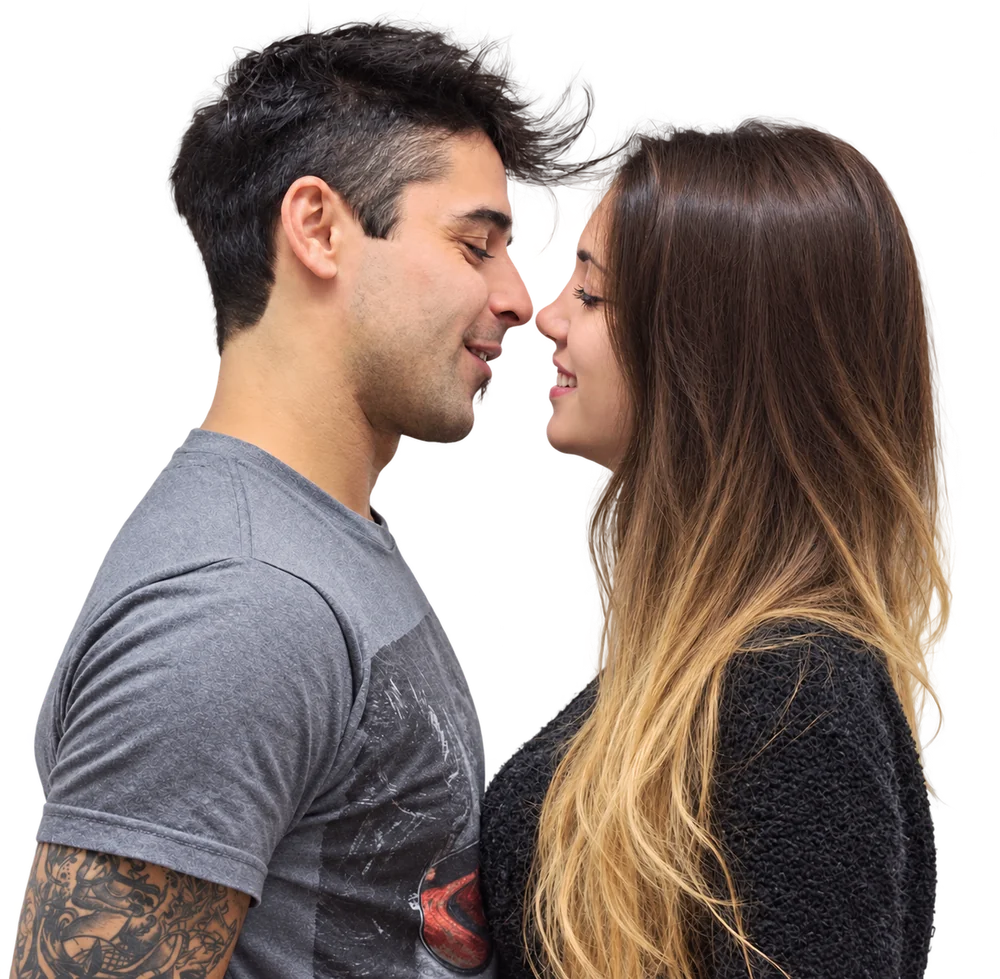
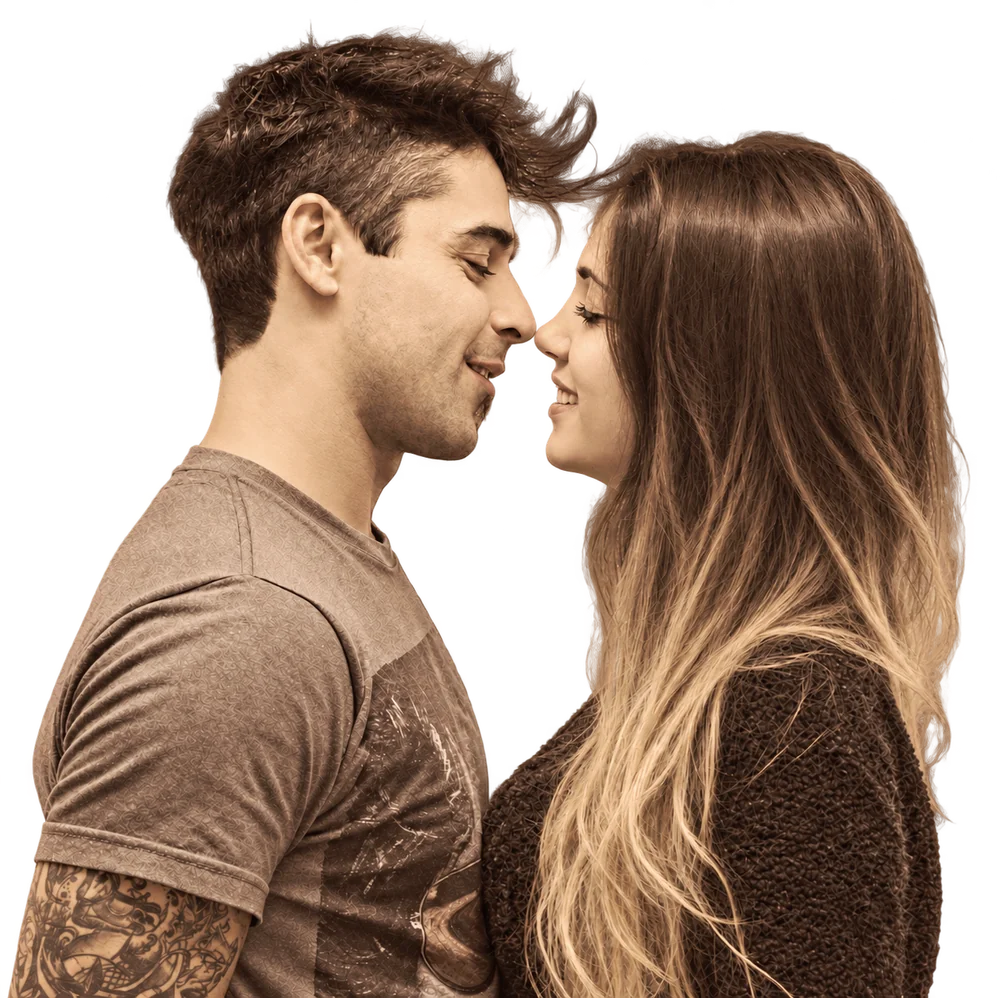
Invitación: foto de los novios en tono sepia
Claude-Session: https://claude.ai/code/session_01CPC8ckxxTpQ5o2jahJbfrt

diff --git a/invitacion/index.html b/invitacion/index.html
@@ -7,8 +7,8 @@
   <title>Camila & Juan · Nos casamos</title>
   <link rel="preconnect" href="https://fonts.gstatic.com" crossorigin>
   <link rel="stylesheet" href="https://fonts.googleapis.com/css2?family=Pinyon+Script&display=swap">
-  <link rel="stylesheet" href="styles.css?v=1791930864">
-  <script src="app.js?v=1791930864" defer></script>
+  <link rel="stylesheet" href="styles.css?v=1791930931">
+  <script src="app.js?v=1791930931" defer></script>
 </head>
 <body>
 <svg class="svg-definitions" aria-hidden="true" xmlns="http://www.w3.org/2000/svg"><defs>
@@ -24,7 +24,7 @@
     <p class="eyebrow">Nos casamos</p>
     <h1 class="names"><img src="assets/nombres.png" alt="Camila &amp; Juan" width="1400" height="411"></h1>
     <p class="subtitle">Una historia, un gran <em>sí.</em></p>
-    <img class="couple-photo" src="assets/pareja.webp" alt="Camila y Juan" width="1000" height="979">
+    <img class="couple-photo" src="assets/pareja.webp?v=1791930931" alt="Camila y Juan" width="1000" height="979">
     <p class="date"><time datetime="2026-12-08">08.12.2026</time></p>
     <div class="divider" aria-hidden="true"><img src="assets/linea.png" alt=""></div>
     <div class="countdown" aria-label="Tiempo hasta la ceremonia">

diff --git a/invitacion/styles.css b/invitacion/styles.css
@@ -169,3 +169,4 @@ body:after{content:'';position:fixed;inset:0;background:#efe6d8;pointer-events:n
 @keyframes linea{from{opacity:0;clip-path:inset(0 50%)}to{opacity:1;clip-path:inset(0)}}
 @media (prefers-reduced-motion:reduce){.anim .hero>*,.anim .reveal{opacity:1!important;transform:none!important;animation:none!important;transition:none!important}}
 .close-dialog:focus,.close-dialog:focus-visible{outline:none;box-shadow:none}
+.hero .couple-photo{opacity:.85}
